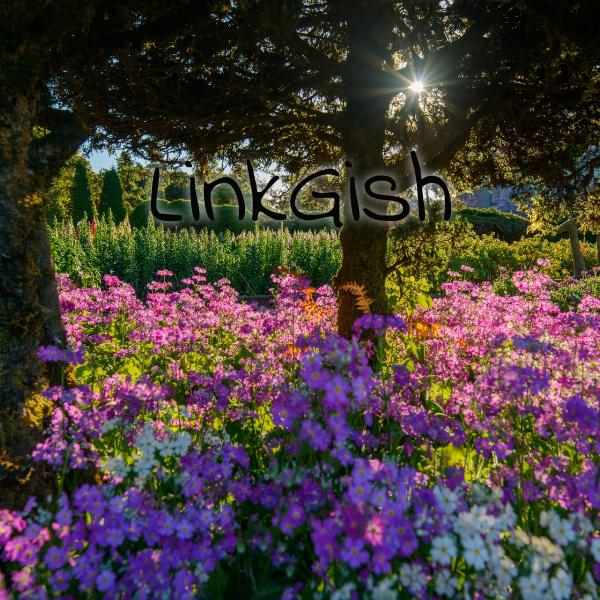
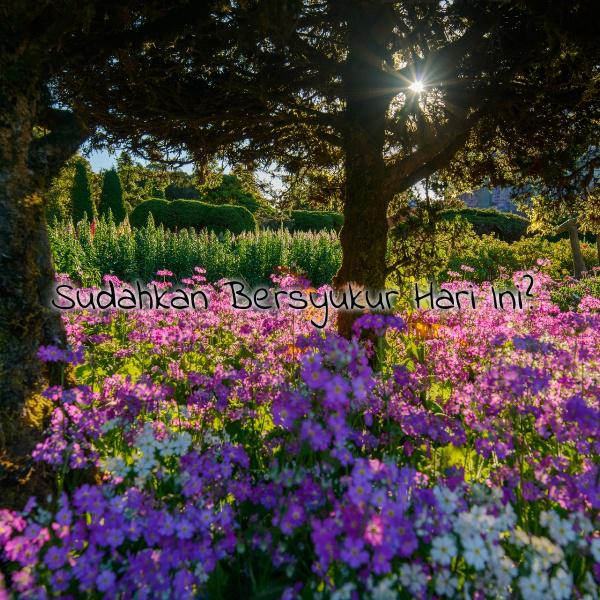
Title Text sudah rapi

Changed region(s): [[0.24, 0.24, 0.78, 0.39], [0.06, 0.45, 0.9, 0.57]]

diff --git a/GeneticDesignProject/main.py b/GeneticDesignProject/main.py
@@ -9,69 +9,50 @@ from Algorithm_Crop1x1 import crop1x1_cv2
 from Histogram import BGR_hist, Offset_hist, BW_hist
 from Algorithm_Text import TextDrawShade
 
-img = cv2.imread("/home/linkgish/Desktop/WebApp2/GeneticDesignProject/example2.jpg",1)
-original_img = img
-img = crop1x1_cv2(img,600)#max(img.shape[:2]))
-cv2.imwrite('/home/linkgish/Desktop/WebApp2/GeneticDesignProject/crop1x1_cv2.jpg',img)
-overlay_img = Image.new("RGB", img.shape[:2], color=Offset_hist(BGR_hist(img)))#"orange")  # This could be a bitmap fill too, but let's just make it orange
-# img = cv2.copyMakeBorder(img, 100,100,100,100,cv2.BORDER_CONSTANT,value = [0,0,0])
-# print(img.shape[:2]) #print 2 first array
-img_width = img.shape[1]
-img_height = img.shape[0]
+#Open image using OpenCV /  cv2
+img = cv2.imread("/home/linkgish/Desktop/WebApp2/GeneticDesignProject/example.jpg",1)
+original_img = img #Save original image on a fix variable
+img_size = 600
+img = crop1x1_cv2(img,img_size)  #Crop the image in square dimension
+#Save it to a file from cv2
+#So it can be edited by PIL soon
+cv2.imwrite('/home/linkgish/Desktop/WebApp2/GeneticDesignProject/crop1x1_cv2.jpg',img) 
 
-# For PIL
+#MAke overlay image using PIL
+overlay_img = Image.new("RGB", img.shape[:2], color=Offset_hist(BGR_hist(img))) #Use shape[:2] because PIL only edit 2D image
+#square image so..
+img_width, img_height = img_size, img_size
+#Open cropped image using PIL
 img_crop = Image.open("/home/linkgish/Desktop/WebApp2/GeneticDesignProject/crop1x1_cv2.jpg")
 
-## Draw text in simple way
-# font = cv2.FONT_HERSHEY_SIMPLEX
-# cv2.putText(img,'OpenCV',(img_height//2,img_width//4), font, 4,(255,255,255),2,cv2.LINE_AA)
-
-FONT_PATH = '/home/linkgish/Desktop/WebApp2/GeneticDesignProject/IndieFlower.ttf'
-FONT_SIZE = 100
-img = cv2.imread("/home/linkgish/Desktop/WebApp2/GeneticDesignProject/example2.jpg",1)
-font = ImageFont.truetype(FONT_PATH,FONT_SIZE)
-TEXT = "LinkGish"
-textsize = font.getsize(TEXT)   #Getting the width of the text
-print('Text size = ',textsize)
-# print(len(TEXT)) #Count word in TEXT
+FONT_PATH = '/home/linkgish/Desktop/WebApp2/GeneticDesignProject/IndieFlower.ttf'   #Open custom font
+FONT_SIZE = 40     #Set font size
+font = ImageFont.truetype(FONT_PATH,FONT_SIZE)  #Generate font
+TITLE_TEXT = "Semangat! Terus Berproses.. "       #Input title text
+textsize = font.getsize(TITLE_TEXT)   #Getting the width and height of the text
+# print('Text size = ',textsize)  #Checking
 PLACE_X = (img_width-textsize[0])//2
-PLACE_Y = (img_height-textsize[1])//4
-print('PLACE HERE = ',PLACE_X,PLACE_Y)
-
+PLACE_Y = (img_height-textsize[1])//2
+# print('PLACE HERE = ',PLACE_X,PLACE_Y)  #Checking
+#Create mask image using other module
 mask_img = TextDrawShade(size=overlay_img.size,
             font=font,
-            text=TEXT,
+            text=TITLE_TEXT,
             placex=PLACE_X,
             placey=PLACE_Y,
             fill=255,
             radius=3         
             )
-# print('shape 1 = ',draw.shape)
-# print('shape 2 = ',img.shape)
-# print('shape 3 = ',img_pil.shape) #Err
-# img = np.array(img_pil)
+# print(overlay_img.size, img_crop.size, mask_img.size) #Checking, all should be same
 
-# cv2.imshow('Original img', original_img)
-# cv2.imshow('Result',img)
-# cv2.waitKey(0)
-# mask_img = TextDraw((img_crop.size))
-# mask_img = make_ellipse_mask(img_crop.size, 150, 70, 350, 250, 5)
-print(overlay_img.size, img_crop.size, mask_img.size)
-# overlay_img.show()
-# img_crop.show()
-# mask_img.show()
-masked_img = Image.composite(overlay_img, img_crop, mask_img)
-# img = np.array(masked_img)
-# masked_img.show()
-
-# array_img = np.array(masked_img)
-# title_img = Image.fromarray(array_img)
-draw = ImageDraw.Draw(masked_img)
-draw.text((PLACE_X,PLACE_Y), TEXT, font = font, fill = BGR_hist(original_img))#(240,240,240,1))#BGR_hist(original_img))#(b, g, r, a))
+masked_img = Image.composite(overlay_img, img_crop, mask_img)   #Compose image using PIL
+#Draw the image again for create Title Text
+draw = ImageDraw.Draw(masked_img)   
+draw.text((PLACE_X,PLACE_Y), TITLE_TEXT, font = font, fill = BGR_hist(original_img))
 masked_img.save('/home/linkgish/Desktop/WebApp2/GeneticDesignProject/ResultTitleImage.jpg')
-masked_img.show()
-
+# masked_img.show()
 # img = np.array(masked_img)
-# cv2.imshow('Result',img)
-# cv2.waitKey(0)
+result_img = cv2.imread('/home/linkgish/Desktop/WebApp2/GeneticDesignProject/ResultTitleImage.jpg')
+cv2.imshow('Result',result_img)
+cv2.waitKey(0)
 

diff --git a/GeneticDesignProject/Histogram.py b/GeneticDesignProject/Histogram.py
@@ -2,14 +2,12 @@ from matplotlib import pyplot as plt
 import cv2 
 import numpy as np 
 
-def returntest(number):
+def returntest(number):     
+    #Just checking the return function
     a = number[0]
     b = number[1]
     c = number[2]
     return a,c,b
-
-# cek = returntest([12,23,34])
-# print(cek)
 
 def BW_hist(img_source):
     # Histogram black white
@@ -23,8 +21,8 @@ def BGR_hist(img_source):
     for i,col in enumerate(color):
         histr = cv2.calcHist([img_source],[i],None,[256],[0,256])
         # print(i,' berikut ',np.where(np.max(histr)), np.shape(histr), np.argmax(histr))
-        # print(histr)
-        print(i,' adalah ', np.max(histr), ' di ',np.argmax(histr))
+        # print(histr)  #Print full layer array
+        # print(i,' adalah ', np.max(histr), ' di ',np.argmax(histr)) #Print each layer max value
         ColorDominant.append(np.argmax(histr))
         plt.plot(histr,color = col)
         plt.xlim([0,256])
@@ -35,6 +33,7 @@ def BGR_hist(img_source):
     return b, g, r, a
 
 def Offset_hist(BGRA):
+    #Offset function for shading option
     if BGRA[0]>=256//2:
         b=50
         g=50
